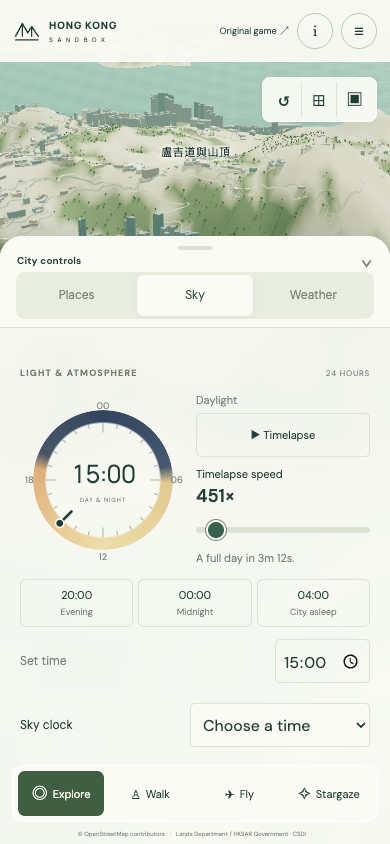
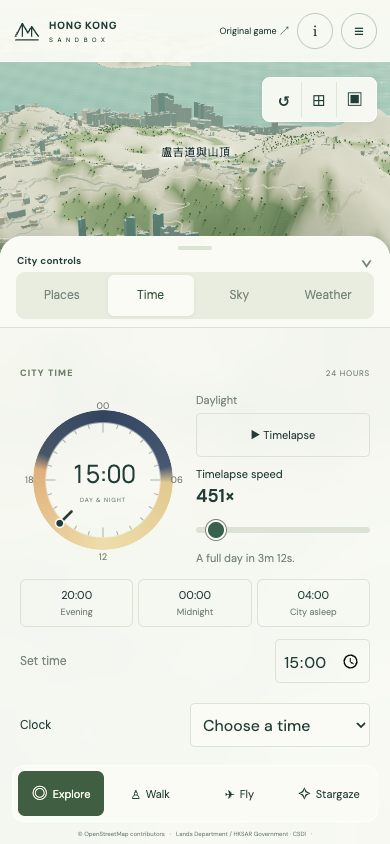
feat: give city time controls their own tab (HKS-190)

diff --git a/3d-viewer/city.html b/3d-viewer/city.html
@@ -17,7 +17,7 @@
 <aside id="explorer" class="panel explorer control-sheet" aria-label="City controls">
  <header class="sheet-header">
   <button id="sheet-handle" class="sheet-handle" aria-expanded="false" aria-controls="control-content"><span class="sheet-grip" aria-hidden="true"></span><span>City controls</span><span class="sheet-action" aria-hidden="true">⌃</span></button>
-  <div class="panel-tabs" role="tablist" aria-label="City controls"><button role="tab" id="tab-places" data-panel="places" aria-controls="panel-places" aria-selected="true">Places</button><button role="tab" id="tab-sky" data-panel="sky" aria-controls="panel-sky" aria-selected="false" tabindex="-1">Sky</button><button role="tab" id="tab-weather" data-panel="weather" aria-controls="panel-weather" aria-selected="false" tabindex="-1">Weather</button></div>
+  <div class="panel-tabs" role="tablist" aria-label="City controls"><button role="tab" id="tab-places" data-panel="places" aria-controls="panel-places" aria-selected="true">Places</button><button role="tab" id="tab-time" data-panel="time" aria-controls="panel-time" aria-selected="false" tabindex="-1">Time</button><button role="tab" id="tab-sky" data-panel="sky" aria-controls="panel-sky" aria-selected="false" tabindex="-1">Sky</button><button role="tab" id="tab-weather" data-panel="weather" aria-controls="panel-weather" aria-selected="false" tabindex="-1">Weather</button></div>
  </header>
  <div id="control-content" class="control-content">
  <div class="eyebrow"><span id="chapter-label">01 — HONG KONG ISLAND</span><span class="chapter-dot"></span></div>
@@ -38,8 +38,8 @@
   <label><span><span class="layer-icon">⌖</span> Place names</span><input type="checkbox" id="layer-labels" checked><span class="switch"></span></label>
  </div>
  </section>
- <section id="panel-sky" role="tabpanel" aria-labelledby="tab-sky" hidden>
- <div class="time-head"><span class="section-label">LIGHT & ATMOSPHERE</span><span class="clock-cycle-label">24 HOURS</span></div>
+ <section id="panel-time" role="tabpanel" aria-labelledby="tab-time" hidden>
+ <div class="time-head"><span class="section-label">CITY TIME</span><span class="clock-cycle-label">24 HOURS</span></div>
  <div class="clock-row">
   <div id="time-dial" class="clock-face" role="slider" tabindex="0" aria-label="24-hour city clock" aria-valuemin="0" aria-valuemax="1439" aria-valuenow="900" aria-valuetext="15:00" aria-describedby="clock-help">
    <div class="solar-ring" aria-hidden="true"></div>
@@ -54,10 +54,13 @@
   <div class="night-presets" aria-label="Night lighting presets"><button data-hour="20" aria-pressed="false">20:00 <span>Evening</span></button><button data-hour="0" aria-pressed="false">00:00 <span>Midnight</span></button><button data-hour="4" aria-pressed="false">04:00 <span>City asleep</span></button></div>
  <span id="clock-help" class="visually-hidden">Drag around the clock. Midnight at the top, noon at the bottom. Arrow keys change fifteen minutes, Shift and arrows five minutes, Page Up or Down one hour. Home sets midnight.</span>
  <label class="clock-exact">Set time <input id="time" aria-label="Exact city time" type="time" step="60" value="15:00"></label>
- <div class="environment-fields"><label>Sky clock <select id="sky-mode"><option value="manual">Choose a time</option><option value="live">Live Hong Kong time</option></select></label><label>Date <input id="sky-date" type="date" aria-label="Sky date in Hong Kong"></label></div>
- <p id="sky-location" class="environment-note"></p>
+ <div class="environment-fields"><label>Clock <select id="sky-mode"><option value="manual">Choose a time</option><option value="live">Live Hong Kong time</option></select></label><label>Date <input id="sky-date" type="date" aria-label="City date in Hong Kong"></label></div>
  <p class="night-note">Offices thin out from 6 pm. Homes peak at 10 pm, then settle from 11 pm. Shops close from 9–11 pm; a few lights stay on all night.</p>
  <label class="shimmer-control"><input id="light-shimmer" type="checkbox" checked> Distant light shimmer</label>
+ </section>
+ <section id="panel-sky" role="tabpanel" aria-labelledby="tab-sky" hidden>
+ <div class="section-label">THE NIGHT SKY</div>
+ <p id="sky-location" class="environment-note"></p>
  <p id="sky-readout" class="environment-note"></p><label class="shimmer-control"><input id="sky-constellations" type="checkbox" checked> Constellation lines</label><p class="environment-note">Choose Stargaze below to look around the sky. Tap a star to identify it.</p>
  <div class="environment-extra"><label class="shimmer-control"><input id="sky-meteors" type="checkbox" checked> Shooting stars</label><label class="weather-control" for="sky-meteor-rate"><span>Shooting-star rate</span><output id="sky-meteor-rate-value">Calm</output><input id="sky-meteor-rate" type="range" min="0" max="100" step="1" value="18"></label><p class="environment-note">From a quiet sky to a meteor shower. Shooting stars pause with Reduced Motion.</p></div>
  <div class="sky-bearings" aria-label="Look towards"><button data-bearing="0">North</button><button data-bearing="90">East</button><button data-bearing="180">South</button><button data-bearing="270">West</button></div><p id="sky-selection" class="environment-note" role="status"></p>

diff --git a/docs/astra-city/control-sheet/README.md b/docs/astra-city/control-sheet/README.md
@@ -2,7 +2,7 @@
 
 GPT-6 Astra, 6 September 2026. This adapts the existing City inspector to a mobile bottom sheet and a desktop floating panel. Every pre-existing HTML ID remains present exactly once (118 retained IDs); existing location, layer, sky, meteor, weather, tide and sound handlers remain attached to the same elements. There is no new UI library or second copy of the controls.
 
-On phones up to 760 px wide, the sheet starts collapsed. Its handle, Places/Sky/Weather tabs and Explore/Walk/Fly/Stargaze dock remain visible. A tab or the handle expands the scrollable controls; the handle, a downward gesture or Escape collapses them. Visiting a search result and entering a game mode return to the visible city. The sheet reserves a footer for the dock and uses the original light/dark palette, typefaces and switches, with larger touch targets and 16 px native inputs to avoid mobile input zoom.
+On phones up to 760 px wide, the sheet starts collapsed. Its handle, Places/Time/Sky/Weather tabs and Explore/Walk/Fly/Stargaze dock remain visible. A tab or the handle expands the scrollable controls; the handle, a downward gesture or Escape collapses them. Visiting a search result and entering a game mode return to the visible city. The sheet reserves a footer for the dock and uses the original light/dark palette, typefaces and switches, with larger touch targets and 16 px native inputs to avoid mobile input zoom.
 
 Desktop retains an initially open 318 px floating inspector. At widths 761–1160 px its height stops above the centred mode dock; the wider desktop layout keeps its full height. The header and top-bar button now close/reopen it; `/` opens Places and focuses search. Panel selection and scroll position survive collapsing. Arrow keys follow standard tab behaviour. Collapsed content is hidden and inert, while the mobile tabs remain available. Escape closes the controls before the game's Escape action; open dialogs keep their normal handling. Sheet keyboard events do not become movement keys, and the presentation does not trap focus or block the city.
 
@@ -34,14 +34,20 @@ node tests/control-sheet-browser.mjs
 node tests/control-sheet-browser.mjs --followup
 ```
 
-Reserve the GPU before running. `CITY_URL` and `CHROME_PATH` are optional overrides. The main report is `browser/verification.json`, with direct screenshots at 390×844, 320×844, 390×480 and 1440×1000 (device scale 1, Chrome 152). It verifies the collapsed and expanded states; all three tabs; full clock and lower controls; search; Explore/Walk/Fly/Stargaze; layer-independent meteor and tide input; native keyboard operations; handle gestures; and listener disposal. No page exceptions or WebGL/shader errors occurred.
+Reserve the GPU before running. `CITY_URL` and `CHROME_PATH` are optional overrides. The main report is `browser/verification.json`, with direct screenshots at 390×844, 320×844, 390×480 and 1440×1000 (device scale 1, Chrome 152). It verifies the collapsed and expanded states; all four tabs; full clock and lower controls; search; Explore/Walk/Fly/Stargaze; layer-independent meteor and tide input; native keyboard operations; handle gestures; and listener disposal. No page exceptions or WebGL/shader errors occurred.
 
 The separate `browser/followup-verification.json` also passes native Space activation on the external mode dock (Walk → Explore on desktop and phone), plus the 1024×768 layout. That screenshot was visually inspected: the inspector ends at y=650 and the dock starts at y=669, leaving 19 px. The confirmed pre-fix overlap is retained in `desktop1024-before-fix.json`; the 1160 px breakpoint covers the computed intersection threshold at 1138 px with margin. A test helper was also corrected to reopen the desktop inspector after resizing a collapsed phone sheet.
 
 The full passing run measures a 175 px collapsed phone sheet. Expanded phone content ends at y=756 and the dock begins at y=765, leaving a 9 px separation. There is no horizontal overflow. The Walk keyboard check waits for the existing chase-camera easing to settle, then records unchanged actor position and less than 1 mm residual camera drift while pressing tab arrows and a native Space button.
 
-Exported phone, desktop, clock, lower-weather and short-viewport screenshots were inspected visually: typography and control labels remain legible, the full dial fits at the top of the Sky tab, and scrolled controls stop above the persistent dock. The first failed CSS-cascade check is preserved as `browser/first-pass.json` and `first-pass-overlap.png`; its cause was the old mobile `.explorer.open {display:block}` rule overriding flex layout, and the final rule corrects it.
+Exported phone, desktop, clock, lower-weather and short-viewport screenshots were inspected visually: typography and control labels remain legible, the full dial fits at the top of the Time tab, and scrolled controls stop above the persistent dock. The first failed CSS-cascade check is preserved as `browser/first-pass.json` and `first-pass-overlap.png`; its cause was the old mobile `.explorer.open {display:block}` rule overriding flex layout, and the final rule corrects it.
 
 The keyboard-inset assertion uses a synthetic `visualViewport` resize, plus a real short browser viewport. It verifies layout response to the browser's reported dimensions; it is not a claim of physical iOS/Android keyboard testing. No geography, source imagery, performance benchmark or astronomical accuracy claim is introduced by this presentation change.
 
-The subsequent HKS-189 visibility correction groups the dial, toggle and speed slider at the top of Sky, ahead of the calendar controls. [Current first-open screenshots and multiplier checks](../time-cycle/README.md) supersede the earlier scroll-to-reach speed-control screenshots.
+The subsequent HKS-189 visibility correction groups the dial, toggle and speed slider at the top of Time, ahead of the calendar controls. [Current first-open screenshots and multiplier checks](../time-cycle/README.md) supersede the earlier scroll-to-reach speed-control screenshots.
+
+## Separate Time tab · 7 September 2026
+
+The global clock now has its own tab: **Places · Time · Sky · Weather**. Time contains the 24-hour dial, timelapse toggle and 1×–7,200× speed slider, presets, exact time, live/manual clock, calendar and distant-light shimmer. Sky contains astronomy readouts, constellations, meteors and viewing bearings. Entering Stargaze still selects Sky automatically. The existing control IDs and environment handlers are preserved; the generic sheet controller needs no changes.
+
+The refreshed control-sheet browser run passes 12 groups, including ownership of each control, four-tab keyboard navigation, state persistence, native input isolation and mobile layout at 320/390 px. The timelapse run passes all 10 groups, including date rollover, multiplier speed, shadows, lights, pause/resume and independent live weather/tide clocks. First-open speed controls fit without scrolling at 320/390/760/1024/1440 px. New exported Time screenshots at 390 and 1440 px were inspected. Existing browser scripts now select Time before clock controls; their unchanged subsystem scenarios were not all rerun.

diff --git a/docs/astra-city/time-cycle/README.md b/docs/astra-city/time-cycle/README.md
@@ -1,6 +1,6 @@
 # Adjustable city timelapse · HKS-189
 
-The 24-hour dial, playback button and speed slider form one visible group at the top of Sky, before date and live-clock settings. This extends `CityEnvironment.timeLapse`; it does not introduce another city clock or timer. Markup and responsive control-sheet styles are coordinated with HKS-190.
+The 24-hour dial, playback button and speed slider form one visible group at the top of Time, before date and live-clock settings. This extends `CityEnvironment.timeLapse`; it does not introduce another city clock or timer. Markup and responsive control-sheet styles are coordinated with HKS-190.
 
 The slider now displays **1×–7,200× normal speed**, in whole multipliers. At 1×, one simulated second equals one real second. The default is **450×**, preserving the previous one-hour-in-eight-seconds pace. The adjacent note translates the speed into a full day: 24h at 1×, 24m at 60×, 3m 12s at 450×, 48s at 1,800× and 12s at 7,200×. The range is keyboard accessible and reports the normal-speed multiplier through `aria-valuetext`. Internally, the existing clock still uses simulated minutes per second; the UI converts the multiplier by dividing by 60.
 
@@ -35,4 +35,4 @@ The new first-open screenshots at 390×844 and 1024×768 were inspected: the ful
 
 ## Visibility and units follow-up
 
-The user reported that the speed slider appeared missing. The served page contained it, but earlier tests scrolled it into view and missed the initial visibility problem. The controls have been regrouped at the top of Sky; the speed track and thumb are also more distinct. The browser regression now checks the whole dial/play/speed/duration group at scroll position zero across 320, 390, 760, 1024 and 1440 px. Source summary verification also checks the current **346,115 building forms · Lands Department + OSM** label; 42,892 was the earlier OSM dataset. This label change adds no buildings or geometry.
+The user reported that the speed slider appeared missing. The served page contained it, but earlier tests scrolled it into view and missed the initial visibility problem. The controls have been regrouped at the top of Time; the speed track and thumb are also more distinct. The browser regression now checks the whole dial/play/speed/duration group at scroll position zero across 320, 390, 760, 1024 and 1440 px. Source summary verification also checks the current **346,115 building forms · Lands Department + OSM** label; 42,892 was the earlier OSM dataset. This label change adds no buildings or geometry.
